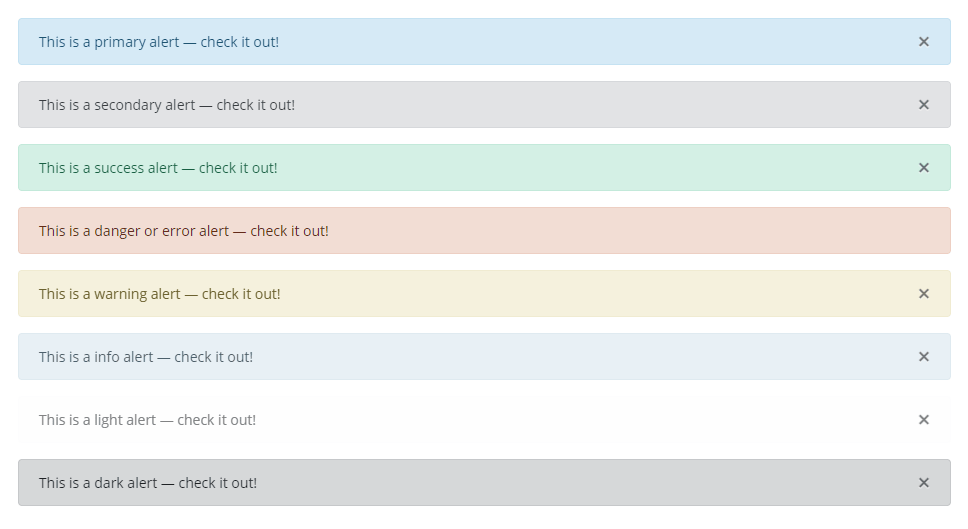
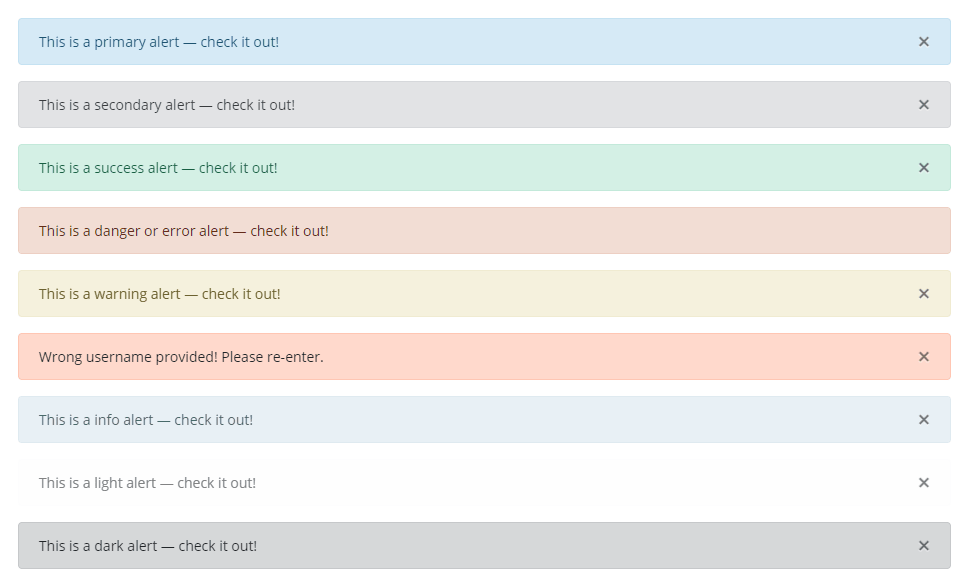
Added info about 'validation' type

diff --git a/README.md b/README.md
@@ -78,8 +78,9 @@ You may also define the following flash messages:
 | `flash('your-message', 'secondary')`      | Set the flash type to "secondary".                                        |
 | `flash('your-message', 'success')`        | Set the flash type to "success".                                          |
 | `flash('your-message', 'warning')`        | Set the flash type to "warning".                                          |
+| `flash('your-message', 'validation')`     | Set the flash type to "validation".                                       |
 | `flash('your-message', 'info')`           | Set the flash type to "info".                                             |
-| `flash('your-message', 'danger')`         | Set the flash type to "error".                                            |
+| `flash('your-message', 'danger')`         | Set the flash type to "danger".                                           |
 | `flash('your-message', 'error')`          | Set the flash type to "error" (alias to "danger") w/o a close button.     |
 | `flash('your-message', 'error', true)`    | Set the flash type to "error" with a close button to the message.         |
 | `flash('your-message', 'light')`          | Set the flash type to "light".                                            |
